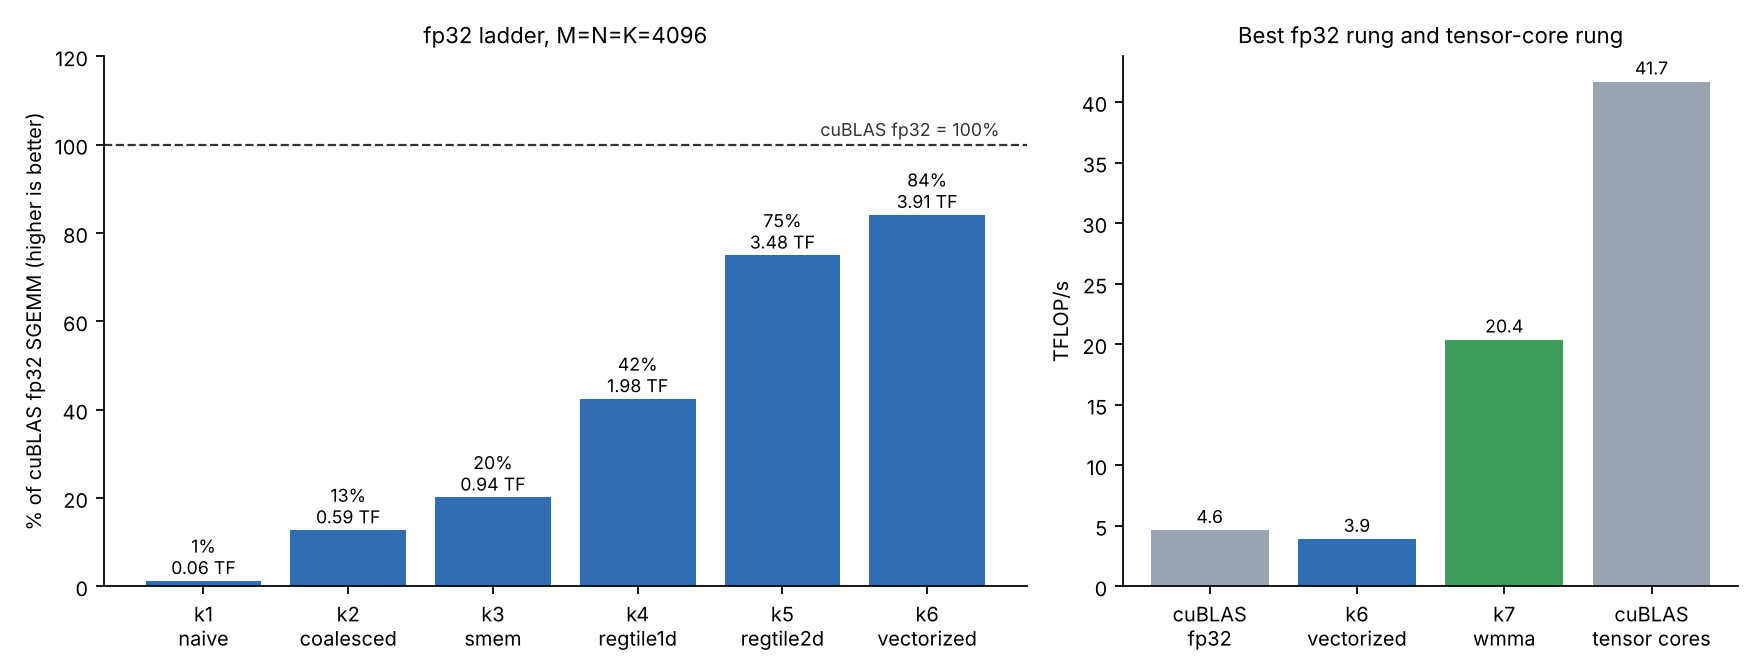
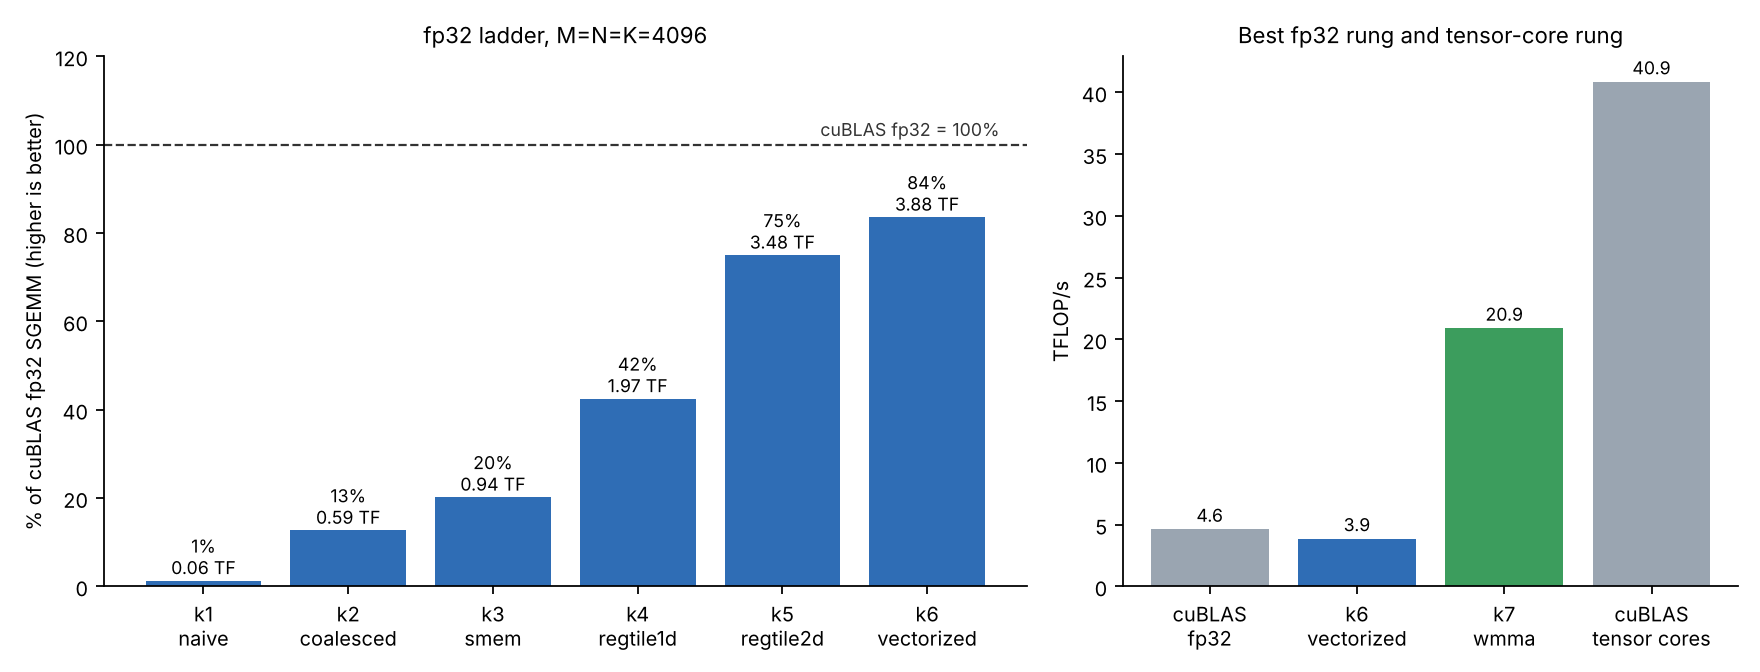
Report three-run medians, fp64 check results, ignore generated CSV

diff --git a/README.md b/README.md
@@ -20,8 +20,8 @@ flowchart LR
 ```bash
 git clone https://github.com/ekambaranath/gemm-ladder && cd gemm-ladder
 make check                       # builds, checks all 7 rungs vs cuBLAS at 512^3
-make run                         # M=N=K=4096, writes results/gemm_ladder.csv
-python scripts/plot_ladder.py    # writes docs/gemm_ladder.png
+make run                         # M=N=K=4096, writes results/gemm_ladder.csv (git-ignored)
+python scripts/plot_ladder.py results/gemm_ladder.csv docs/gemm_ladder.png
 ```
 
 Other GPUs: `make ARCH=sm_80` (A100), `sm_89` (L4/RTX 40), `sm_90` (H100). No GPU? `make emu` runs every kernel
@@ -76,57 +76,68 @@ Every rung is checked before it is timed, two ways:
 Output is pre-filled with a NaN pattern, so an unwritten element fails. A rung that fails either check is reported
 FAIL and its timing is not to be trusted. Tolerance: `< 1e-4` for fp32 rungs, `< 2e-3` for the fp16 tensor-core rung.
 
-Note on the "0.00e+00" errors: the fp32 rungs match cuBLAS fp32 *bit for bit*. That is plausible rather than
-suspicious, because each of these kernels accumulates every output element sequentially over k with fused
-multiply-add, and a non-split-K cuBLAS SGEMM does the same, so the rounding sequence is identical. The tensor-core
-rung accumulates differently and shows a small non-zero error (about 7e-6). The fp64 check above is what makes the
-claim independent of that explanation.
+**Measured outcome (T4, 4096^3, worst scaled error over the 128 samples, `|got - ref| / (|ref| + 1)`):**
+cuBLAS fp32 and all six fp32 rungs k1 to k6 show the same 2.18e-05, and match cuBLAS bit for bit (relative error
+exactly 0). That is expected, not suspicious: each of these kernels accumulates every output sequentially over k with
+fused multiply-add, and a non-split-K cuBLAS SGEMM does the same, so the rounding sequence is identical. The fp64
+check shows that this shared result is the correct one up to ordinary fp32 accumulation error over K=4096. The
+tensor-core rung accumulates differently and shows 1.37e-04 against fp64 (and 6.7e-6 against cuBLAS fp32 on the
+full-matrix Frobenius metric; the two metrics are not directly comparable), well inside its 2e-3 tolerance.
+The fp32 tolerance of 1e-4 is only about 5x above the observed error, and fp32 accumulation error grows with K,
+so it would need loosening for much larger K.
 
 ## Results
 
-Measured on a Tesla T4 (Colab, sm_75, 40 SMs), M=N=K=4096, CUDA events, median of 10 runs after warm-up, one
-session. Raw data: `results/gemm_ladder.csv`.
+Tesla T4 (Colab, sm_75, 40 SMs), M=N=K=4096, CUDA events, median of 10 timed runs per launch after warm-up. The
+whole benchmark was run **three times**; the table gives the median over those three runs and the observed range.
+Raw data: `results/gemm_ladder_median.csv` (table and chart) and `results/gemm_ladder_run3.csv` (one full run
+including the fp64 column). Both were transcribed from console output.
 
 ![GEMM ladder](docs/gemm_ladder.png)
 
-| kernel | ms | TFLOP/s | % of matching cuBLAS | step speedup | rel err vs cuBLAS |
+| kernel | ms (median) | TFLOP/s (range over 3 runs) | % of matching cuBLAS (range) | step speedup | err vs fp64 |
 |---|---|---|---|---|---|
-| cuBLAS fp32 (reference) | 29.60 | 4.64 | 100 | | |
-| cuBLAS fp16 tensor cores | 3.30 | 41.68 | 100 | | |
-| k1 naive | 2221.04 | 0.06 | 1.3 | | 0 |
-| k2 coalesced | 231.61 | 0.59 | 12.8 | 9.6x | 0 |
-| k3 shared-memory tiling | 146.57 | 0.94 | 20.2 | 1.58x | 0 |
-| k4 1D register tile | 69.59 | 1.98 | 42.5 | 2.11x | 0 |
-| k5 2D register tile | 39.49 | 3.48 | 75.0 | 1.76x | 0 |
-| k6 vectorized | 35.15 | 3.91 | 84.2 | 1.12x | 0 |
-| k7 WMMA tensor cores (fp16) | 6.75 | 20.37 | 48.9 (of tensor-core cuBLAS) | 5.2x vs k6 | 6.7e-6 |
+| cuBLAS fp32 (reference) | 29.62 | 4.64 (4.49 to 4.64) | 100 | | 2.18e-05 |
+| cuBLAS fp16 tensor cores | 3.36 | 40.87 (37.96 to 41.69) | 100 | | |
+| k1 naive | 2220.7 | 0.06 | 1.3 (1.3 to 1.4) | | 2.18e-05 |
+| k2 coalesced | 233.9 | 0.59 (0.58 to 0.59) | 12.7 (12.7 to 12.9) | 9.5x | 2.18e-05 |
+| k3 shared-memory tiling | 146.9 | 0.94 (0.92 to 0.94) | 20.2 (20.2 to 20.4) | 1.59x | 2.18e-05 |
+| k4 1D register tile | 69.7 | 1.97 (1.94 to 1.98) | 42.5 (42.5 to 43.1) | 2.11x | 2.18e-05 |
+| k5 2D register tile | 39.5 | 3.48 (3.39 to 3.48) | 75.0 (75.0 to 75.5) | 1.76x | 2.18e-05 |
+| k6 vectorized | 35.4 | 3.88 (3.78 to 3.91) | 83.6 (83.6 to 84.2) | 1.11x | 2.18e-05 |
+| k7 WMMA tensor cores (fp16) | 6.57 | 20.92 (20.37 to 21.30) | 51.2 (48.9 to 55.1), of tensor-core cuBLAS | 5.4x vs k6 | 1.37e-04 |
 
-k1 to k6 is a 63x speedup. k7 is not an improvement on k6 in the same units, because it changes precision.
+k1 to k6 is a 63x speedup. k7 is a separate comparison because it changes precision.
+Step speedups are ratios of the median times.
 
 ### What the data shows
 
-- **Memory access pattern dominates first.** k1 to k2 is 9.6x from an index remapping alone, with identical
+- **Memory access pattern dominates first.** k1 to k2 is 9.5x from an index remapping alone, with identical
   arithmetic.
-- **Reuse is the next lever, with diminishing returns.** Shared-memory tiling gave 1.58x, register tiling 2.1x then
+- **Reuse is the next lever, with diminishing returns.** Shared-memory tiling gave 1.59x, register tiling 2.11x then
   1.76x. FMAs per shared-memory load rise from 0.5 (k3) to about 0.9 (k4) to 4 (k5), but k3 to k5 is a 3.7x speedup,
   not 8x, so something else caps the gain.
-- **Vectorization is a small win here (12%).** k6 changes two things at once (float4 loads and a transposed A tile),
+- **Vectorization is a small win here (11%).** k6 changes two things at once (float4 loads and a transposed A tile),
   so the data cannot say which one helped; that needs an ablation.
-- **At 512^3 the ladder flattens at the top.** k5 and k4 take the same time (0.278 ms vs 0.281 ms). With 128x128
-  tiles a 512x512 output is only 16 blocks for 40 SMs, so the GPU cannot be filled. The grid arithmetic is fact; that
-  it is the cause is my inference, not something I profiled.
-- **Tensor cores: big absolute gain, half of cuBLAS.** k7 is 5.2x faster than the best fp32 rung and reaches 49%
-  of cuBLAS tensor-core GEMM (about 31% of the T4's 65 TFLOP/s fp16 spec).
+- **The fp32 results are stable.** Each fp32 rung's percent-of-cuBLAS varied by at most 0.6 points across three runs.
+- **At 512^3 the ladder flattens at the top** (one earlier run): k5 and k4 take the same time (0.278 ms vs
+  0.281 ms). With 128x128 tiles a 512x512 output is only 16 blocks for 40 SMs, so the GPU cannot be filled. The grid
+  arithmetic is fact; that it is the cause is my inference, not something I profiled.
+- **Tensor cores: big absolute gain, about half of cuBLAS.** k7 is 5.4x faster than the best fp32 rung and reaches
+  49 to 55% of cuBLAS tensor-core GEMM (about 32% of the T4's 65 TFLOP/s fp16 spec at the median).
 
 ### What it does not show (yet)
 
-- **Why k7 stops at 49%.** Likely missing pieces: `cp.async` software pipelining, an XOR-swizzled shared layout
-  instead of padding, and per-shape tuned tile sizes. These are hypotheses until profiled.
+- **Why k7 stops at about half of cuBLAS.** Likely missing pieces: `cp.async` software pipelining, an XOR-swizzled
+  shared layout instead of padding, and per-shape tuned tile sizes. These are hypotheses until profiled.
+- **Why cuBLAS tensor-core throughput moved 38 to 42 TFLOP/s between runs** while k7 moved 20.4 to 21.3. The k7
+  percentage range (49 to 55%) comes mostly from the cuBLAS baseline. Power or thermal clock changes are a plausible
+  cause but the clock was not measured.
 - **Percent of hardware peak.** The harness prints a spec-sheet fp32 peak (8.14 TFLOP/s at the 1590 MHz boost
   clock). T4s are power-capped and typically run below boost under sustained load, so percent-of-spec flatters the
-  hardware; percent-of-cuBLAS is the more reliable number and is what the table uses. The actual clock was not measured.
-- **Run-to-run variance.** One session, median only. No Nsight Compute profile yet (occupancy, bank conflicts, stall
-  reasons); that is the evidence that would turn these hypotheses into findings.
+  hardware; percent-of-cuBLAS is the more reliable number and is what the table uses.
+- **Nsight Compute data.** No profile yet (occupancy, bank conflicts, stall reasons). That is the evidence that would
+  turn these hypotheses into findings.
 
 ## Known limits (deliberate)
 
